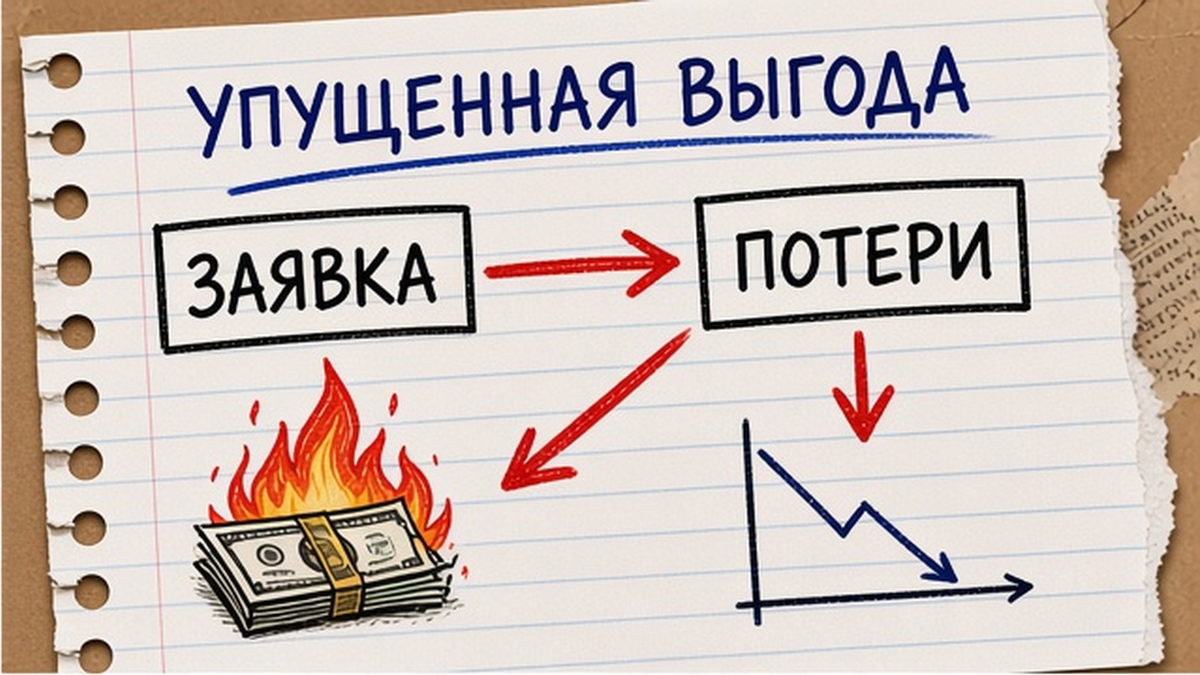
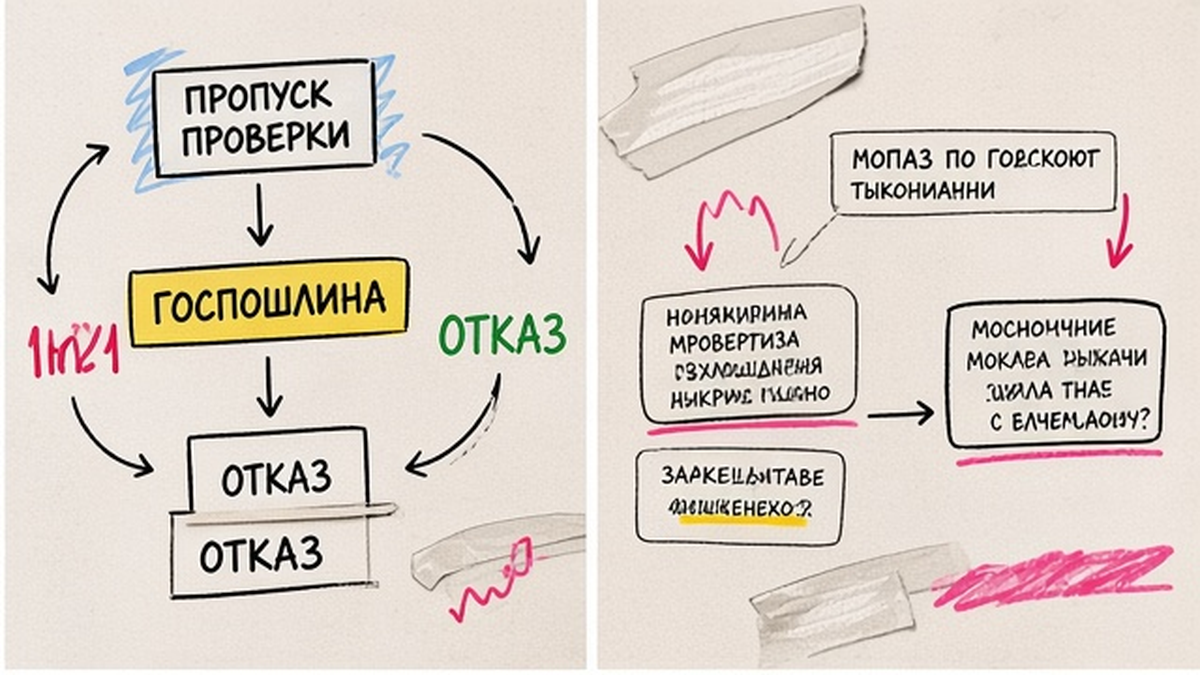
blog(L01): preflight SERP refresh and publish-bundle sync
- research-serp.json / research-context.json (2026-10-17 preflight)
- publish-bundle article-body, schema.jsonld, inline images

diff --git a/memory/blog/articles/L01-proverka-tovarnogo-znaka-pered-podachey-v-rospatent/publish-bundle/article-body.html b/memory/blog/articles/L01-proverka-tovarnogo-znaka-pered-podachey-v-rospatent/publish-bundle/article-body.html
@@ -5,9 +5,7 @@
 <p>Проверка перед регистрацией - фильтр до пошлин, а не гарантия одобрения. Экспертиза ищет сходство и однородность товаров (ст. 1499 ГК РФ). Мотивацию регистрации не повторяем - см. <a href="/7_prichin_zaregestrirovat_tovarnyiy_znak">7 причин зарегистрировать товарный знак</a>.</p>
 
 <h2>Проверьте обозначение до заявки: что теряете, если пропустить шаг</h2>
-<figure class="inline-quad" data-slot="inline_1">
-  <img src="/template/images/blog/l01_proverka_tovarnogo_znaka_pered_podachey_v_rospatent_inline_01.png" alt="Схема: что теряете, если не проверить обозначение до заявки в Роспатент" loading="lazy">
-</figure>
+<p><img src="/template/images/blog/l01_proverka_tovarnogo_znaka_pered_podachey_v_rospatent_inline_01.png" alt="Схема: что теряете, если не проверить обозначение до заявки в Роспатент" loading="lazy"></p>
 
 
 <p>Отказ по п. 6 ст. 1483 (сходство в однородных товарах) возможен после пошлин и месяцев ожидания. Возврат - только по основаниям Положения о пошлинах, не как автомат при отказе.</p>
@@ -15,9 +13,7 @@
 <p><b>Делайте:</b> 1-2 дня на DIY, пока название и макет гибкие. <b>Не делайте:</b> считать домен или маркетплейс заменой реестра заявок.</p>
 
 <h2>Соберите карту источников: платформа, реестры, opendata, TMview</h2>
-<figure class="inline-quad" data-slot="inline_2">
-  <img src="/template/images/blog/l01_proverka_tovarnogo_znaka_pered_podachey_v_rospatent_inline_02.png" alt="Таблица бесплатных источников: платформа Роспатента, ФИПС, TMview" loading="lazy">
-</figure>
+<p><img src="/template/images/blog/l01_proverka_tovarnogo_znaka_pered_podachey_v_rospatent_inline_02.png" alt="Таблица бесплатных источников: платформа Роспатента, ФИПС, TMview" loading="lazy"></p>
 
 
 <p>FAQ Роспатента перечисляет бесплатные сервисы ФИПС: Поисковую платформу, реестры, МКТУ, лексико-семантический идентификатор. Международный контур - TMview и базы ВОИС.</p>
@@ -75,9 +71,7 @@
 </blockquote>
 
 <h2>Пройдите пошаговую проверку на тождество и сходство</h2>
-<figure class="inline-quad" data-slot="inline_3">
-  <img src="/template/images/blog/l01_proverka_tovarnogo_znaka_pered_podachey_v_rospatent_inline_03.png" alt="Чеклист пошаговой проверки товарного знака на тождество и сходство" loading="lazy">
-</figure>
+<p><img src="/template/images/blog/l01_proverka_tovarnogo_znaka_pered_podachey_v_rospatent_inline_03.png" alt="Чеклист пошаговой проверки товарного знака на тождество и сходство" loading="lazy"></p>
 
 
 <p>По методрекомендациям (приказ № 197) сравнивают звук, смысл и графику. Ищите название в кириллице, латинице и транслите. Вопрос "свободен ли товарный знак" на практике сводится к отсутствию опасных совпадений в ваших классах МКТУ, а не к пустой выдаче в Google.</p>
